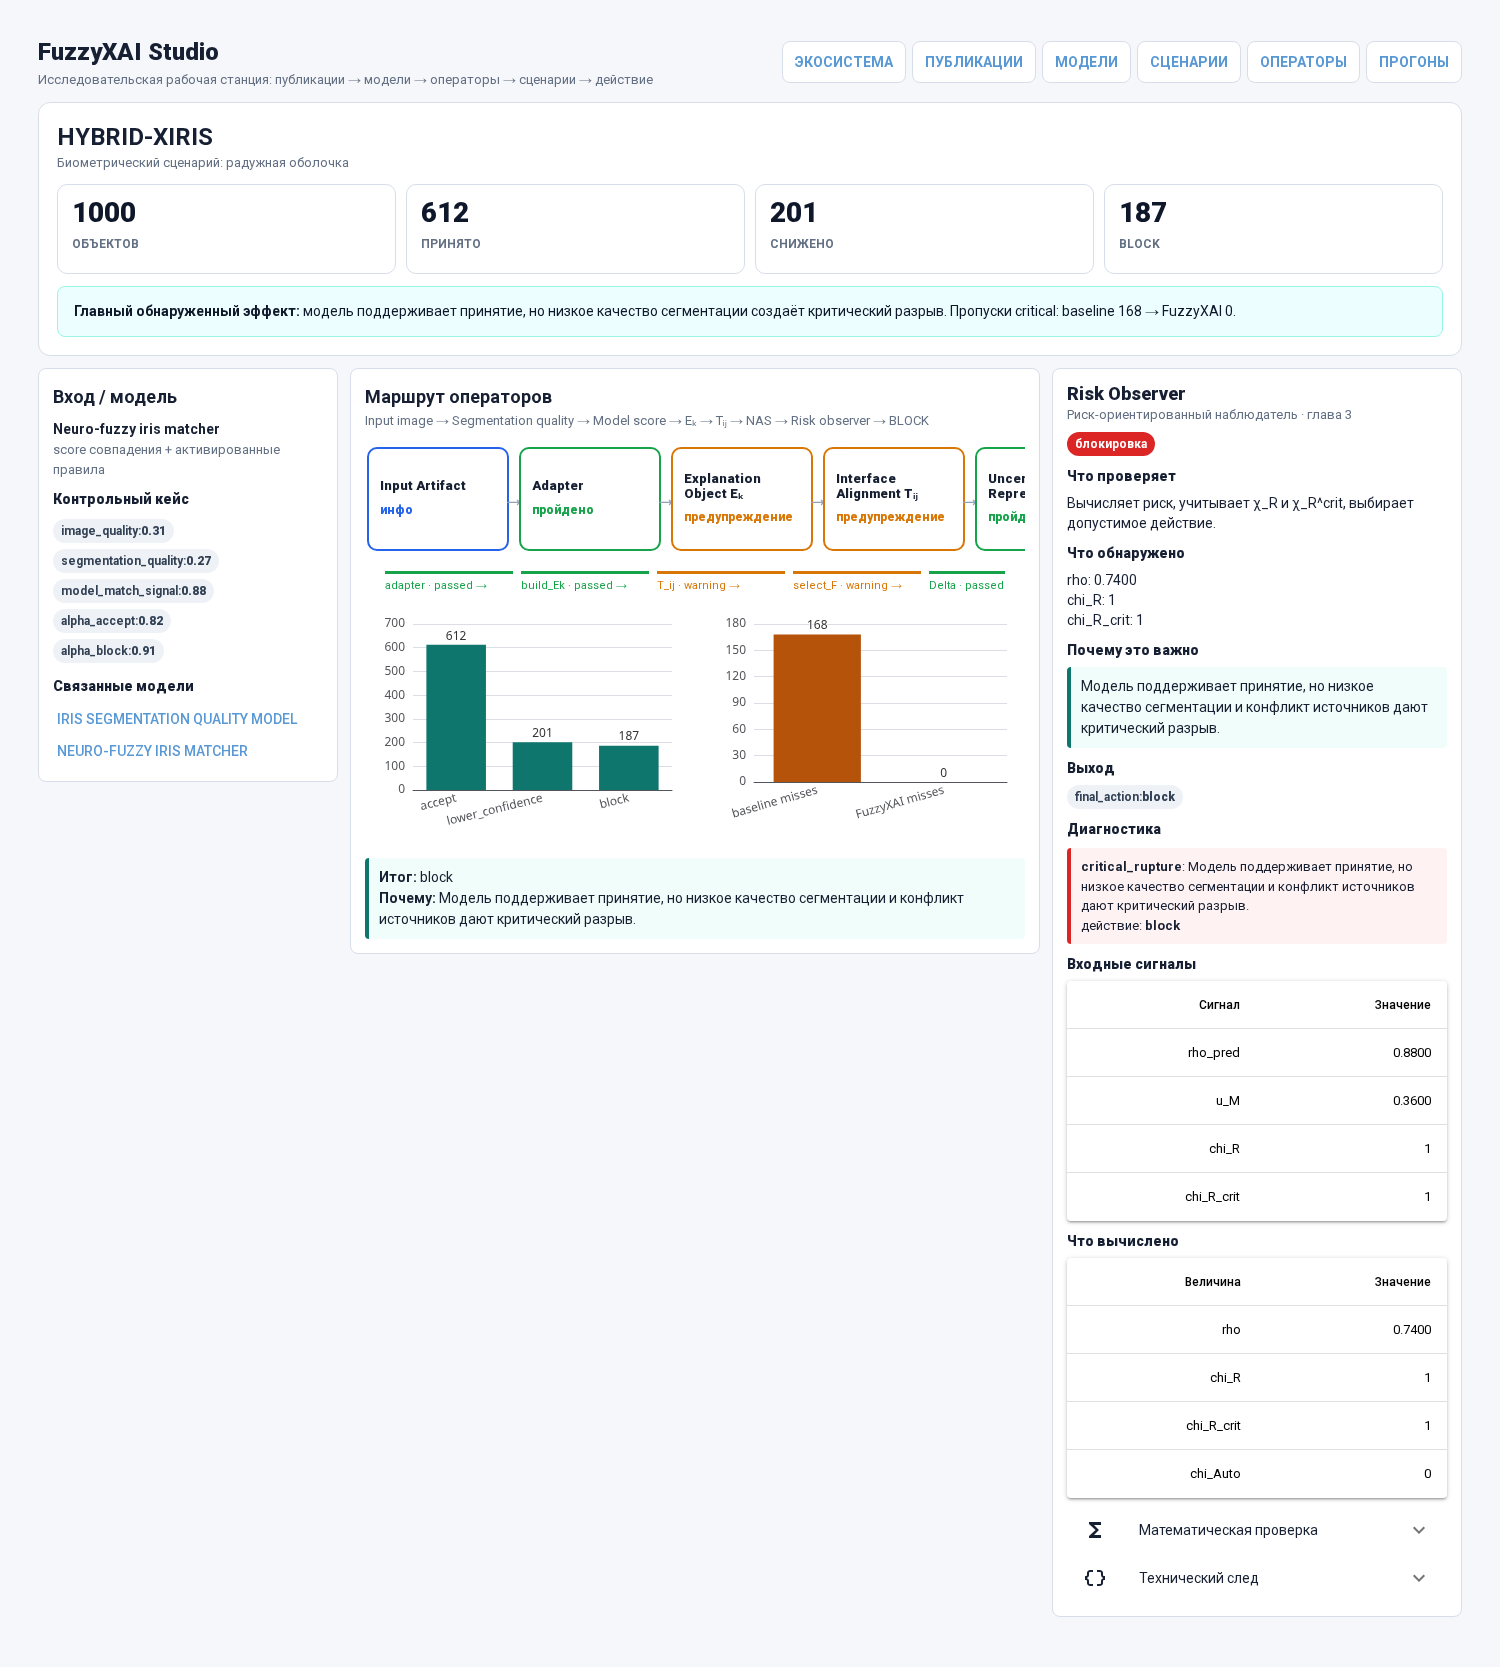
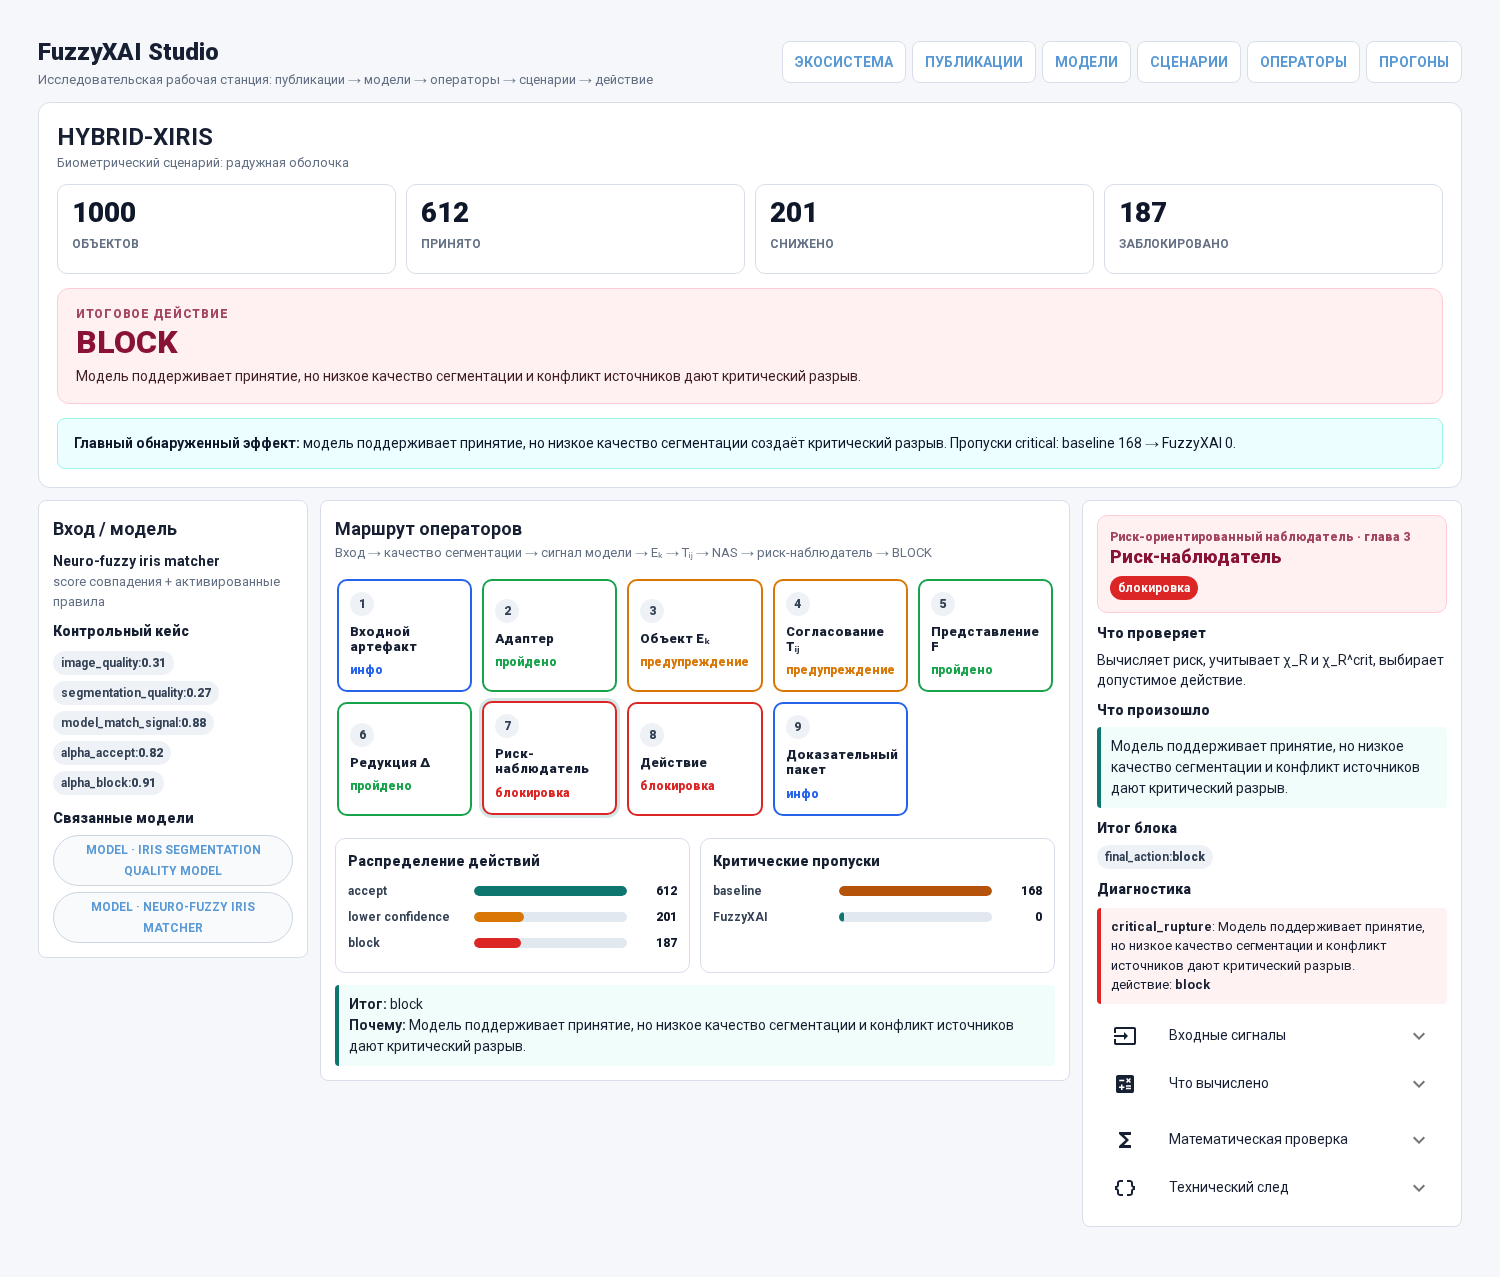
Refine Studio visual layout and operator inspector UX

diff --git a/apps/fuzzyxai_studio.py b/apps/fuzzyxai_studio.py
@@ -46,6 +46,23 @@ def _status_label(status: str) -> str:
     return STATUS_LABELS.get(str(status), str(status).replace("_", " "))
 
 
+NODE_TITLE_RU = {
+    "Input Artifact": "Входной артефакт",
+    "Adapter": "Адаптер",
+    "Explanation Object Eₖ": "Объект Eₖ",
+    "Interface Alignment Tᵢⱼ": "Согласование Tᵢⱼ",
+    "Uncertainty Representation F": "Представление F",
+    "Reduction Δ": "Редукция Δ",
+    "Risk Observer": "Риск-наблюдатель",
+    "Action": "Действие",
+    "Report / Proof Package": "Доказательный пакет",
+}
+
+
+def _node_title(node: dict[str, Any]) -> str:
+    return NODE_TITLE_RU.get(str(node.get("title", "")), str(node.get("title", "")))
+
+
 def _fmt(value: Any) -> str:
     if isinstance(value, float):
         return f"{value:.4f}"
@@ -63,6 +80,19 @@ def _metric_rows(mapping: dict[str, Any]) -> list[dict[str, str]]:
 def _short(text: str, limit: int = 120) -> str:
     text = str(text)
     return text if len(text) <= limit else text[: limit - 1] + "…"
+
+
+def _compact_bar_html(title: str, rows: list[tuple[str, int, str]]) -> str:
+    max_value = max([value for _, value, _ in rows] or [1])
+    bars = []
+    for label, value, color in rows:
+        width = 0 if max_value == 0 else max(3, round(value / max_value * 100))
+        bars.append(
+            f"<div class='fx-bar-row'><div class='fx-bar-label'>{label}</div>"
+            f"<div class='fx-bar-track'><div class='fx-bar-fill' style='width:{width}%;background:{color}'></div></div>"
+            f"<div class='fx-bar-value'>{value}</div></div>"
+        )
+    return f"<div class='fx-compact-chart'><div class='fx-compact-title'>{title}</div>{''.join(bars)}</div>"
 
 
 def _scenario_action_chart(summary: dict[str, Any]) -> dict[str, Any]:
@@ -172,6 +202,11 @@ def run(port: int = 8097) -> None:
           .fx-metric-value { font-size:28px; font-weight:840; color:#0f172a; line-height:1; }
           .fx-metric-label { margin-top:8px; color:var(--fx-muted); font-size:12px; font-weight:700; text-transform:uppercase; }
           .fx-main-finding { padding:14px 16px; border-radius:8px; background:#ecfeff; border:1px solid #99f6e4; color:#0f172a; font-size:14px; }
+          .fx-action-banner { border-radius:12px; padding:16px 18px; margin:14px 0; border:1px solid; }
+          .fx-action-banner.blocked { background:#fff1f2; border-color:#fecdd3; color:#881337; }
+          .fx-action-label { font-size:12px; font-weight:850; text-transform:uppercase; letter-spacing:.06em; opacity:.76; }
+          .fx-action-title { font-size:32px; font-weight:900; margin-top:3px; line-height:1; }
+          .fx-action-reason { margin-top:8px; color:#3f1d24; font-size:14px; }
           .fx-grid-4 { display:grid; grid-template-columns:repeat(4,minmax(0,1fr)); gap:10px; }
           .fx-grid-3 { display:grid; grid-template-columns:repeat(3,minmax(0,1fr)); gap:10px; }
           .fx-grid-2 { display:grid; grid-template-columns:repeat(2,minmax(0,1fr)); gap:10px; }
@@ -183,22 +218,33 @@ def run(port: int = 8097) -> None:
           .fx-map { display:grid; grid-template-columns: repeat(6, minmax(120px,1fr)); gap:8px; align-items:stretch; }
           .fx-map-step { border:1px solid var(--fx-border); background:white; border-radius:8px; padding:12px; text-align:center; min-height:92px; }
           .fx-map-arrow { color:var(--fx-muted); text-align:center; margin-top:8px; }
-          .fx-workspace { display:grid; grid-template-columns:300px minmax(0,1fr) 410px; gap:12px; align-items:start; }
+          .fx-workspace { display:grid; grid-template-columns:270px minmax(0,1fr) 380px; gap:12px; align-items:start; }
           .fx-hybrid-header { background:white; border:1px solid var(--fx-border); border-radius:12px; padding:18px; margin:0 0 12px; }
-          .fx-pipeline { display:flex; gap:10px; overflow-x:auto; padding:8px 2px 12px; align-items:stretch; }
-          .fx-node { position:relative; min-width:142px; min-height:104px; border:2px solid var(--c); background:white; border-radius:10px; padding:11px; cursor:pointer; text-align:left; }
-          .fx-node:after { content:"→"; position:absolute; right:-14px; top:42px; color:#94a3b8; font-weight:900; }
-          .fx-node:last-child:after { content:""; }
+          .fx-pipeline { display:grid; grid-template-columns:repeat(auto-fit,minmax(118px,1fr)); gap:10px; overflow:visible; padding:8px 2px 12px; align-items:stretch; }
+          .fx-node { position:relative; min-height:108px; border:2px solid var(--c); background:white; border-radius:10px; padding:11px; cursor:pointer; text-align:left; }
           .fx-node.active { box-shadow:0 0 0 3px rgba(15,118,110,.18); transform:translateY(-1px); }
+          .fx-node-index { width:24px; height:24px; border-radius:999px; display:flex; align-items:center; justify-content:center; background:#eef2f7; color:#334155; font-size:12px; font-weight:850; margin-bottom:8px; }
           .fx-node-title { font-weight:760; font-size:13px; line-height:1.18; }
           .fx-node-status { margin-top:7px; color:var(--c); font-size:12px; font-weight:760; }
-          .fx-edge-strip { display:flex; gap:8px; overflow-x:auto; margin:8px 20px 0; }
-          .fx-edge { min-width:128px; border-top:3px solid var(--c); color:var(--c); padding-top:4px; font-size:11px; white-space:nowrap; }
+          .fx-inspector-head { border:1px solid var(--fx-border); border-radius:10px; padding:12px; margin-bottom:10px; background:#f8fafc; }
+          .fx-inspector-head.blocked, .fx-inspector-head.critical { background:#fff1f2; border-color:#fecdd3; color:#881337; }
+          .fx-inspector-head.warning { background:#fffbeb; border-color:#fde68a; color:#713f12; }
+          .fx-inspector-kicker { font-size:12px; font-weight:760; opacity:.78; }
           .fx-inspector-title { font-size:18px; font-weight:760; line-height:1.2; }
           .fx-section-title { font-size:14px; font-weight:760; margin:10px 0 6px; }
           .fx-human { border-left:4px solid var(--fx-accent); background:#f0fdfa; border-radius:4px; padding:9px 10px; font-size:14px; }
           .fx-diagnostic { border-left:4px solid #dc2626; background:#fef2f2; border-radius:4px; padding:9px 10px; font-size:13px; margin-top:8px; }
           .fx-link-list button { width:100%; justify-content:flex-start; }
+          .fx-chip-list { display:flex; flex-wrap:wrap; gap:6px; margin-top:6px; }
+          .fx-chip-list button { border:1px solid #cbd5e1; border-radius:999px; background:#f8fafc; padding:4px 8px; min-height:30px; font-size:12px; font-weight:700; }
+          .fx-compact-grid { display:grid; grid-template-columns:repeat(2,minmax(0,1fr)); gap:10px; margin-top:10px; }
+          .fx-compact-chart { border:1px solid var(--fx-border); border-radius:10px; padding:12px; background:#fff; }
+          .fx-compact-title { font-weight:820; margin-bottom:10px; }
+          .fx-bar-row { display:grid; grid-template-columns:118px minmax(80px,1fr) 42px; align-items:center; gap:8px; margin:8px 0; font-size:12px; }
+          .fx-bar-label { color:#334155; font-weight:700; }
+          .fx-bar-track { height:10px; border-radius:999px; background:#e2e8f0; overflow:hidden; }
+          .fx-bar-fill { height:10px; border-radius:999px; }
+          .fx-bar-value { text-align:right; font-weight:820; color:#0f172a; }
           .fx-formula { background:#f8fafc; border:1px solid var(--fx-border); border-radius:8px; padding:10px; overflow-x:auto; }
           .fx-technical { max-height:360px; overflow:auto; font-size:12px; }
           .fx-action { font-size:24px; font-weight:800; }
@@ -398,10 +444,16 @@ def run(port: int = 8097) -> None:
                             ("Объектов", summary.get("objects_total", "—")),
                             ("Принято", summary.get("accept", "—")),
                             ("Снижено", summary.get("lower_confidence", "—")),
-                            ("Block", summary.get("block", "—")),
+                            ("Заблокировано", summary.get("block", "—")),
                         ]:
                             with ui.element("div").classes("fx-metric"):
                                 ui.html(f"<div class='fx-metric-value'>{value}</div><div class='fx-metric-label'>{label}</div>")
+                    with ui.element("div").classes("fx-action-banner blocked"):
+                        ui.html(
+                            "<div class='fx-action-label'>Итоговое действие</div>"
+                            "<div class='fx-action-title'>BLOCK</div>"
+                            f"<div class='fx-action-reason'>{report.get('action_reason')}</div>"
+                        )
                     with ui.element("div").classes("fx-main-finding mt-3"):
                         ui.html(
                             f"<b>Главный обнаруженный эффект:</b> модель поддерживает принятие, но низкое качество сегментации создаёт критический разрыв. "
@@ -425,10 +477,11 @@ def run(port: int = 8097) -> None:
                         ]:
                             ui.html(f"<div class='fx-badge' style='margin:3px 3px 3px 0'>{label}: <b>{value}</b></div>")
                         ui.label("Связанные модели").classes("fx-section-title")
-                        for mid in ["model_iris_quality", "model_iris_matcher"]:
-                            m = models_by_id.get(mid)
-                            if m:
-                                ui.button(m["title"], on_click=lambda _e=None, x=mid: set_view("model", model_id=x)).props("flat dense")
+                        with ui.element("div").classes("fx-chip-list"):
+                            for mid in ["model_iris_quality", "model_iris_matcher"]:
+                                m = models_by_id.get(mid)
+                                if m:
+                                    ui.button(f"Model · {m['title']}", on_click=lambda _e=None, x=mid: set_view("model", model_id=x)).props("flat dense")
                     else:
                         ui.table(
                             columns=[{"name": "metric", "label": "Показатель", "field": "metric"}, {"name": "value", "label": "Значение", "field": "value"}],
@@ -438,19 +491,37 @@ def run(port: int = 8097) -> None:
                 with ui.element("div").classes("fx-card"):
                     ui.label("Маршрут операторов").classes("text-lg font-bold")
                     if scenario["scenario_id"] == "hybrid_xiris":
-                        ui.label("Input image → Segmentation quality → Model score → Eₖ → Tᵢⱼ → NAS → Risk observer → BLOCK").classes("fx-muted")
+                        ui.label("Вход → качество сегментации → сигнал модели → Eₖ → Tᵢⱼ → NAS → риск-наблюдатель → BLOCK").classes("fx-muted")
                     with ui.element("div").classes("fx-pipeline mt-2"):
-                        for n in scenario["pipeline"]:
+                        for idx, n in enumerate(scenario["pipeline"], start=1):
                             c = _color(n.get("status"))
                             active = n["node_id"] == state["node_id"]
                             with ui.element("button").classes("fx-node active" if active else "fx-node").style(f"--c:{c}").on("click", lambda _e, nid=n["node_id"]: set_view("scenario", scenario_id=scenario["scenario_id"], node_id=nid)):
-                                ui.html(f"<div class='fx-node-title'>{n['title']}</div><div class='fx-node-status'>{_status_label(n.get('status', 'info'))}</div>")
-                    with ui.element("div").classes("fx-edge-strip"):
-                        for e in scenario.get("edges", []):
-                            ui.html(f"<div class='fx-edge' style='--c:{_color(e.get('status'))}'>{e.get('operator_id')} · {e.get('status')} →</div>")
-                    with ui.element("div").classes("fx-grid-2 mt-3"):
-                        ui.echart(_scenario_action_chart(scenario.get("summary", {}))).classes("h-60")
-                        ui.echart(_scenario_evidence_chart(scenario.get("summary", {}))).classes("h-60")
+                                ui.html(f"<div class='fx-node-index'>{idx}</div><div class='fx-node-title'>{_node_title(n)}</div><div class='fx-node-status'>{_status_label(n.get('status', 'info'))}</div>")
+                    if scenario["scenario_id"] == "hybrid_xiris":
+                        ui.html(
+                            "<div class='fx-compact-grid'>"
+                            + _compact_bar_html(
+                                "Распределение действий",
+                                [
+                                    ("accept", int(summary.get("accept", 0)), "#0f766e"),
+                                    ("lower confidence", int(summary.get("lower_confidence", 0)), "#d97706"),
+                                    ("block", int(summary.get("block", 0)), "#dc2626"),
+                                ],
+                            )
+                            + _compact_bar_html(
+                                "Критические пропуски",
+                                [
+                                    ("baseline", int(summary.get("baseline_critical_misses", 0)), "#b45309"),
+                                    ("FuzzyXAI", int(summary.get("fuzzyxai_critical_misses", 0)), "#0f766e"),
+                                ],
+                            )
+                            + "</div>"
+                        )
+                    else:
+                        with ui.element("div").classes("fx-grid-2 mt-3"):
+                            ui.echart(_scenario_action_chart(scenario.get("summary", {}))).classes("h-60")
+                            ui.echart(_scenario_evidence_chart(scenario.get("summary", {}))).classes("h-60")
                     with ui.element("div").classes("fx-human mt-3"):
                         ui.html(f"<b>Итог:</b> {report.get('final_action')}<br><b>Почему:</b> {report.get('action_reason')}")
                 render_inspector(node, scenario)
@@ -458,22 +529,17 @@ def run(port: int = 8097) -> None:
     def render_inspector(node: dict[str, Any], scenario: dict[str, Any]) -> None:
         op = node.get("operator", {})
         with ui.element("div").classes("fx-card"):
-            ui.label(node.get("title", "")).classes("fx-inspector-title")
-            ui.label(f"{op.get('operator_name')} · глава {op.get('source_chapter')}").classes("fx-muted")
-            ui.html(f"<span class='fx-badge status' style='--c:{_color(node.get('status', 'info'))}'>{_status_label(node.get('status', 'info'))}</span>").classes("mt-2")
+            status = node.get("status", "info")
+            with ui.element("div").classes(f"fx-inspector-head {status}"):
+                ui.html(f"<div class='fx-inspector-kicker'>{op.get('operator_name')} · глава {op.get('source_chapter')}</div>")
+                ui.html(f"<div class='fx-inspector-title'>{_node_title(node)}</div>")
+                ui.html(f"<span class='fx-badge status' style='--c:{_color(status)}'>{_status_label(status)}</span>").classes("mt-2")
             ui.label("Что проверяет").classes("fx-section-title")
             ui.label(op.get("description", "")).classes("text-sm")
-            ui.label("Что обнаружено").classes("fx-section-title")
-            if node.get("computed"):
-                first_items = list(node.get("computed", {}).items())[:3]
-                for key, value in first_items:
-                    ui.label(f"{key}: {_fmt(value)}").classes("text-sm")
-            else:
-                ui.label("Проверяемый участок маршрута готов к передаче дальше.").classes("text-sm")
-            ui.label("Почему это важно").classes("fx-section-title")
+            ui.label("Что произошло").classes("fx-section-title")
             ui.html(f"<div class='fx-human'>{node.get('effect_on_final_action', 'Проверяет участок объяснительного маршрута.')}</div>")
             if node.get("output"):
-                ui.label("Выход").classes("fx-section-title")
+                ui.label("Итог блока").classes("fx-section-title")
                 for key, value in node.get("output", {}).items():
                     ui.html(f"<span class='fx-badge'>{key}: <b>{_fmt(value)}</b></span>").classes("mr-1")
             diagnostics = node.get("diagnostics", [])
@@ -481,18 +547,18 @@ def run(port: int = 8097) -> None:
                 ui.label("Диагностика").classes("fx-section-title")
                 for d in diagnostics:
                     ui.html(f"<div class='fx-diagnostic'><b>{d.get('type', 'diagnostic')}</b>: {d.get('reason', '')}<br>действие: <b>{d.get('recommended_action', '')}</b></div>")
-            ui.label("Входные сигналы").classes("fx-section-title")
-            ui.table(
-                columns=[{"name": "metric", "label": "Сигнал", "field": "metric"}, {"name": "value", "label": "Значение", "field": "value"}],
-                rows=_metric_rows(node.get("inputs", {})),
-                row_key="metric",
-            ).classes("w-full")
-            ui.label("Что вычислено").classes("fx-section-title")
-            ui.table(
-                columns=[{"name": "metric", "label": "Величина", "field": "metric"}, {"name": "value", "label": "Значение", "field": "value"}],
-                rows=_metric_rows(node.get("computed", {})),
-                row_key="metric",
-            ).classes("w-full")
+            with ui.expansion("Входные сигналы", icon="input").classes("w-full mt-2"):
+                ui.table(
+                    columns=[{"name": "metric", "label": "Сигнал", "field": "metric"}, {"name": "value", "label": "Значение", "field": "value"}],
+                    rows=_metric_rows(node.get("inputs", {})),
+                    row_key="metric",
+                ).classes("w-full")
+            with ui.expansion("Что вычислено", icon="calculate").classes("w-full"):
+                ui.table(
+                    columns=[{"name": "metric", "label": "Величина", "field": "metric"}, {"name": "value", "label": "Значение", "field": "value"}],
+                    rows=_metric_rows(node.get("computed", {})),
+                    row_key="metric",
+                ).classes("w-full")
             with ui.expansion("Математическая проверка", icon="functions").classes("w-full mt-2"):
                 ui.html(f"<div class='fx-formula'>\\({op.get('formula_latex', '')}\\)</div>")
             with ui.expansion("Технический след", icon="data_object").classes("w-full"):
@@ -538,7 +604,7 @@ def run(port: int = 8097) -> None:
                     for case in operator.get("realCases", [])[:8]:
                         with ui.element("div").classes("fx-card mt-2"):
                             ui.label(case.get("scenario_name", "")).classes("font-bold")
-                            ui.label(f"{case.get('node_title')} · {case.get('status')}").classes("fx-muted")
+                            ui.label(f"{NODE_TITLE_RU.get(str(case.get('node_title')), case.get('node_title'))} · {_status_label(case.get('status', 'info'))}").classes("fx-muted")
                             ui.label(_short(case.get("effect", ""), 160)).classes("text-sm")
 
     def render_runs() -> None: